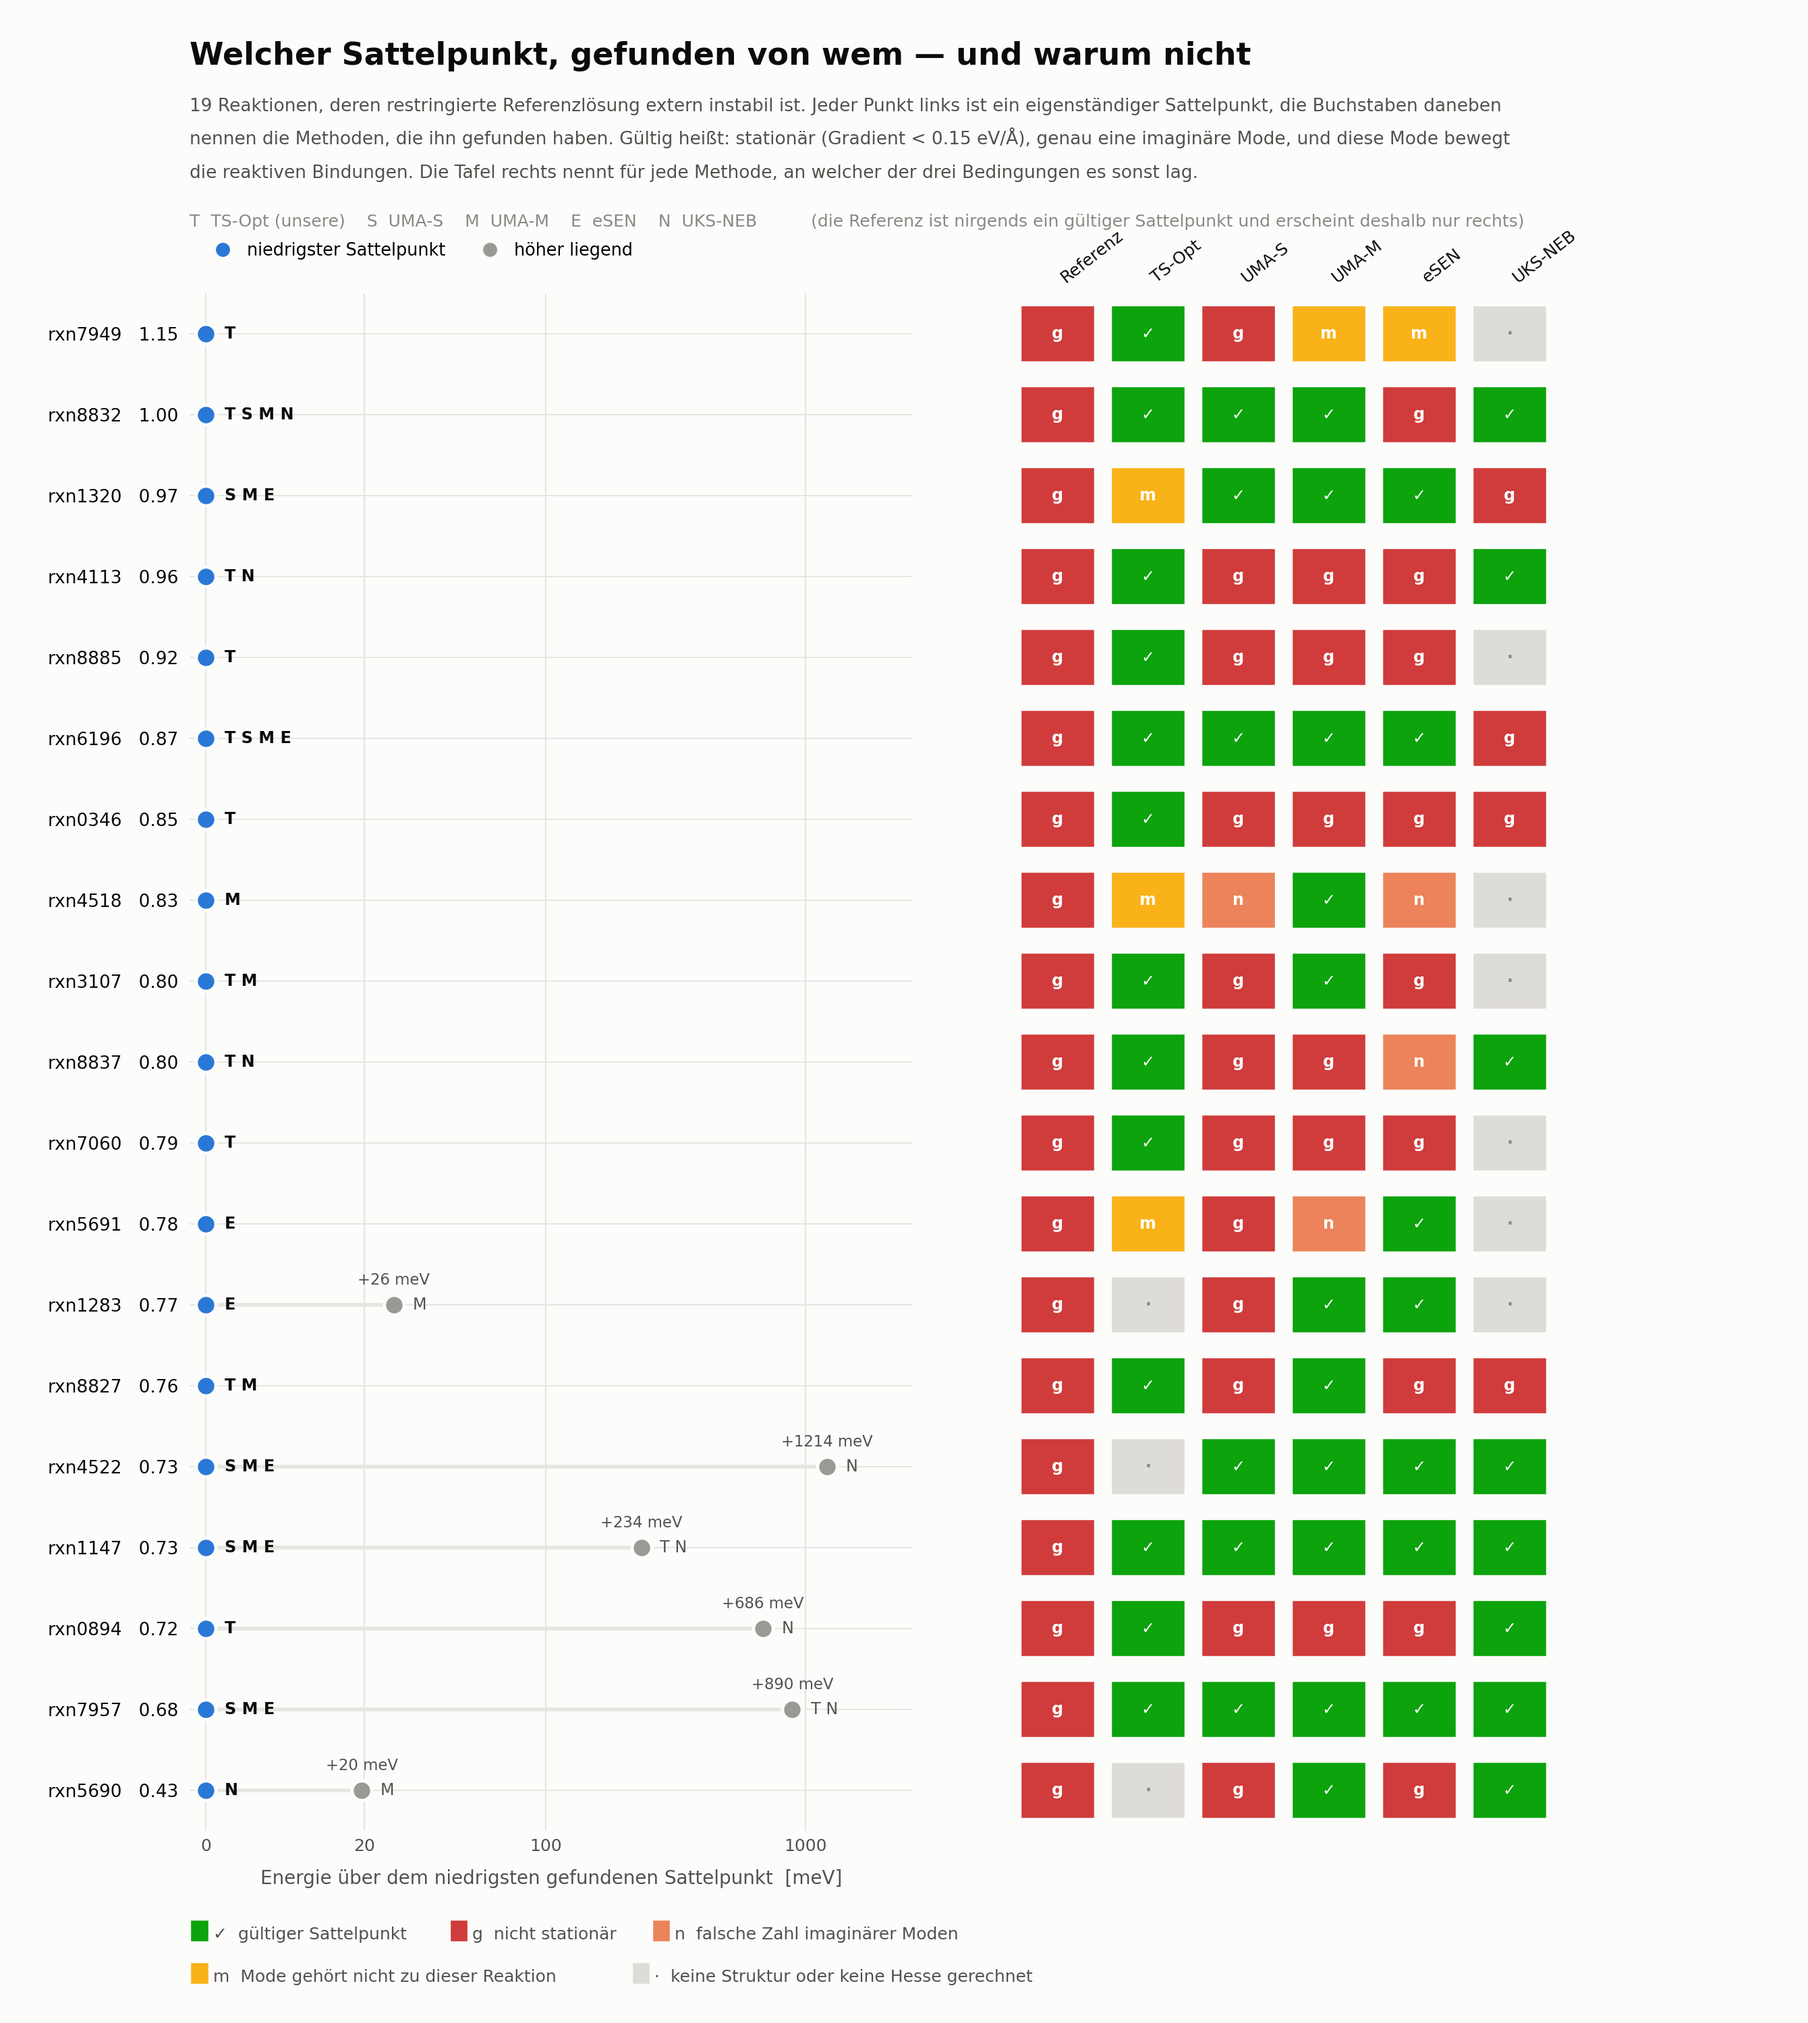
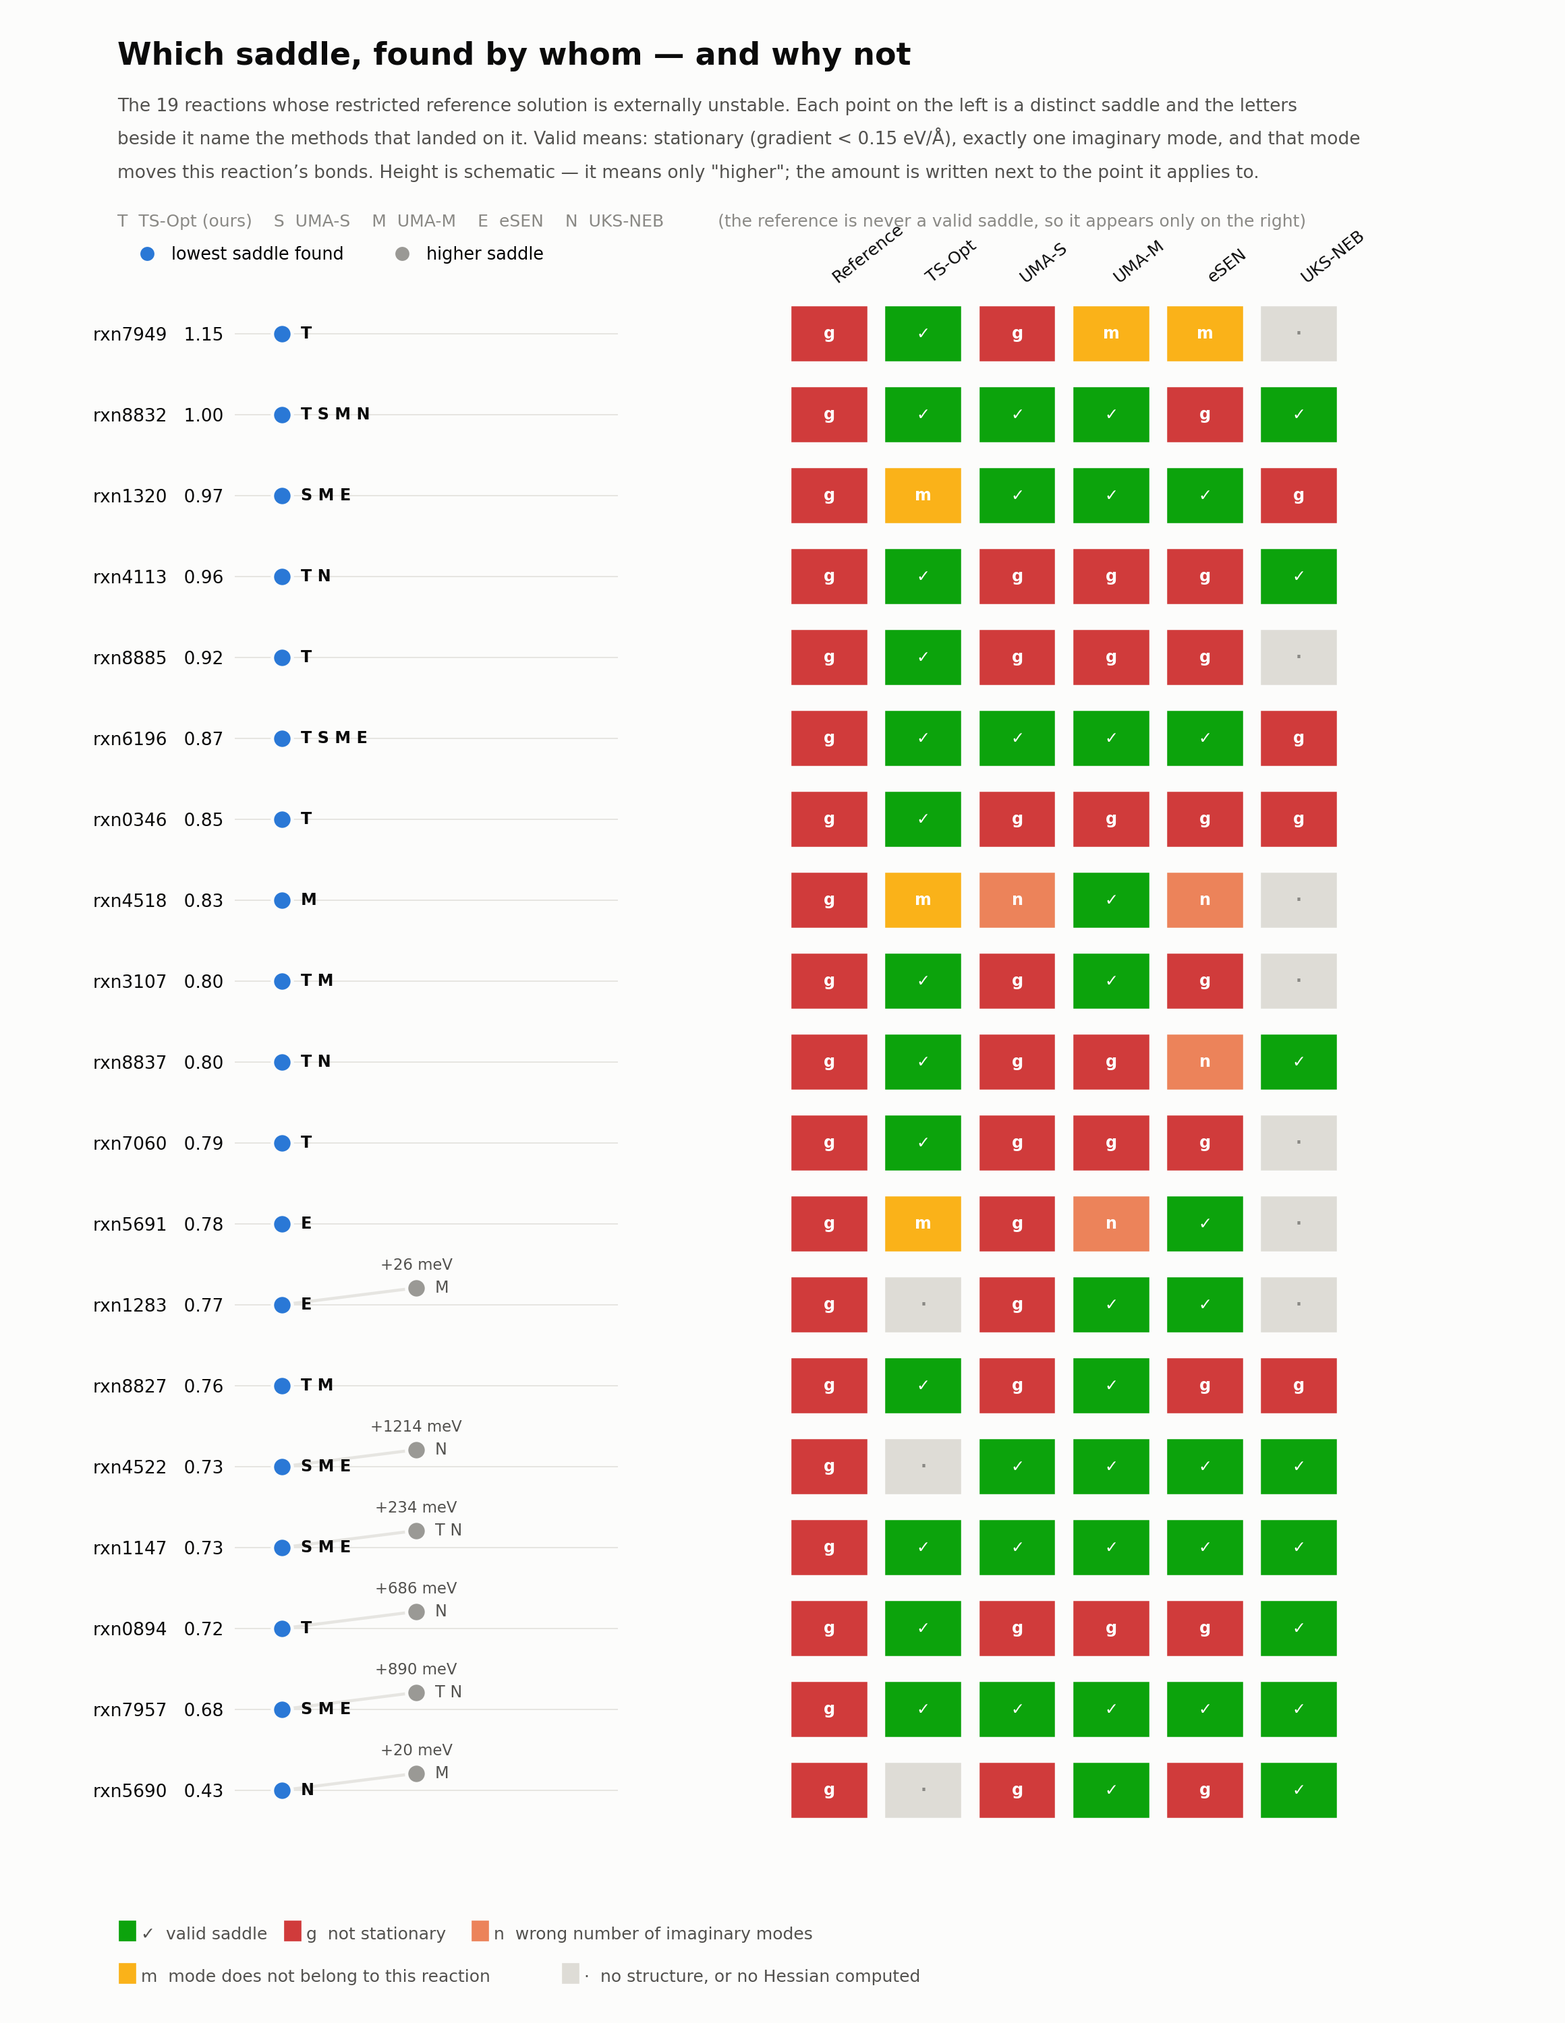
Redraw the saddle figure as a schematic staircase, in English
The energy axis is gone. A symmetric-log scale was hard to read a position off,
and thirteen of the nineteen reactions sit at exactly zero, so most of its width
carried nothing. Height is now schematic -- each further saddle is one step up
and to the right, meaning only "higher" -- and the amount is written beside the
point it applies to, which is where a reader wants it anyway.

That frees enough width to drop the figure from 13.4 to 11.6 inches with the
status panel larger rather than smaller.

Also fixed: the marker legend overlapped the letter key, "higher saddle ->"
duplicated what the subtitle already said, and the first column was still
labelled Referenz.

diff --git a/pipeline/plot_saddle_landscape.py b/pipeline/plot_saddle_landscape.py
@@ -62,7 +62,7 @@ HIGH = '#9a9995'
 ST = {'ok': '#0ca30c', 'grad': '#d03b3b', 'nimag': '#ec835a',
       'mode': '#fab219', 'none': '#dedcd6'}
 
-METHODS = [('Referenz', 'R'), ('TS-Opt', 'T'), ('UMA-S', 'S'),
+METHODS = [('Reference', 'R'), ('TS-Opt', 'T'), ('UMA-S', 'S'),
            ('UMA-M', 'M'), ('eSEN', 'E'), ('UKS-NEB', 'N')]
 MODELDIR = {'UMA-S': 'uma_neb_results', 'UMA-M': 'uma_m_neb_results',
             'eSEN': 'esen_neb_results'}
@@ -201,8 +201,8 @@ def collect(rx):
     out = {}
     g = f'{H}/orca_neb_results/{rx}/transition_state.xyz'
     e, gr = stab(rx, 'RKS-ref')
-    out['Referenz'] = {'geom': g if os.path.exists(g) else None,
-                       'e': e, 'grad': gr, 'hess': None}
+    out['Reference'] = {'geom': g if os.path.exists(g) else None,
+                        'e': e, 'grad': gr, 'hess': None}
     geom = hp = e = None
     for d in ('bs_tsopt_fromneb', 'bs_tsopt_v2', 'bs_tsopt_batch'):
         rp = f'{H}/{d}/{rx}/result.json'
@@ -333,42 +333,40 @@ NR = len(rows)
 # the nineteen reactions have every method on one level at zero, so most of its
 # width would be empty. The emptiness is the message, but it does not need
 # sixty percent of the figure to make it.
-fig = plt.figure(figsize=(13.4, 0.60 * NR + 3.6), facecolor=SURF)
-axE = fig.add_axes([0.105, 0.095, 0.400, 0.760])
-axS = fig.add_axes([0.560, 0.095, 0.300, 0.760], sharey=axE)
+fig = plt.figure(figsize=(11.6, 0.60 * NR + 3.6), facecolor=SURF)
+axE = fig.add_axes([0.150, 0.095, 0.245, 0.760])
+axS = fig.add_axes([0.500, 0.095, 0.360, 0.760], sharey=axE)
 
-XMAX = 2600
+# The energy is drawn as a staircase, not on a scale. A logarithmic axis was
+# hard to read a position off, and thirteen of the nineteen reactions sit at
+# exactly zero, so most of its width carried nothing. Height now means only
+# "higher", and the amount is written next to the point where it applies.
+STEP_X, STEP_Y = 1.0, 0.21
 for ax in (axE, axS):
     ax.set_facecolor(SURF)
     for sp in ax.spines.values():
         sp.set_visible(False)
-axE.set_xscale('symlog', linthresh=20, linscale=0.55)
-axE.set_xlim(-2, XMAX)
+axE.set_xlim(-0.35, 2.5)
 axE.set_ylim(NR - 0.5, -0.5)
 axE.set_yticks(range(NR))
 axE.set_yticklabels([f'{r["rx"]}   {r["nfod"]:.2f}' for r in rows],
                     fontsize=9.5, color=INK, family='DejaVu Sans')
 axE.tick_params(axis='y', length=0, pad=6)
-ticks = [0, 20, 100, 1000]
-axE.set_xticks(ticks)
-axE.set_xticklabels([str(t) for t in ticks], fontsize=9, color=INK2)
-axE.set_xticks([], minor=True)          # symlog adds a ghost tick at linthresh
-axE.tick_params(axis='x', length=0, pad=4)
-for t in ticks:
-    axE.axvline(t, color=GRID, lw=0.8, zorder=0)
+axE.set_xticks([])
 for i in range(NR):
     axE.axhline(i, color=GRID, lw=0.7, zorder=0)
 
 for i, r in enumerate(rows):
     if not r['groups']:
-        axE.text(0.6, i, 'kein gültiger Sattelpunkt', fontsize=9,
+        axE.text(0.0, i, 'kein gültiger Sattelpunkt', fontsize=9,
                  color=INK3, va='center', style='italic')
         continue
-    xs = [max(l, 0.0) for l in r['levels']]
-    if len(xs) > 1:
-        axE.plot([min(xs), max(xs)], [i, i], color=GRID, lw=2.0, zorder=1,
-                 solid_capstyle='round')
-    for k, (grp, x) in enumerate(zip(r['groups'], xs)):
+    # a staircase: every further saddle one step up and to the right
+    pts = [(k * STEP_X, i - k * STEP_Y) for k in range(len(r['groups']))]
+    if len(pts) > 1:
+        px, py = zip(*pts)
+        axE.plot(px, py, color=GRID, lw=1.6, zorder=1, solid_capstyle='round')
+    for k, (grp, (x, y)) in enumerate(zip(r['groups'], pts)):
         col = LOW if k == 0 else HIGH
         # in the column order of the panel on the right, so the eye can move
         # between the two halves without re-sorting
@@ -377,22 +375,20 @@ for i, r in enumerate(rows):
         # One marker per saddle, not per method: four stacked markers inside a
         # row overlap at any readable marker size, and the level is the object
         # the figure is about. Who found it goes beside it as letters.
-        axE.scatter([x], [i], s=112, marker='o', facecolor=col,
+        axE.scatter([x], [y], s=112, marker='o', facecolor=col,
                     edgecolor=SURF, linewidth=1.8, zorder=4)
-        axE.annotate(' '.join(names_short := [LETTER[n] for n in names]),
-                     xy=(x, i), xytext=(10, 0), textcoords='offset points',
+        axE.annotate(' '.join(LETTER[n] for n in names),
+                     xy=(x, y), xytext=(10, 0), textcoords='offset points',
                      fontsize=8.6, color=INK if k == 0 else INK2,
                      va='center', ha='left', zorder=5,
                      weight='bold' if k == 0 else 'normal',
                      family='DejaVu Sans')
         if k > 0:
-            axE.annotate(f'+{x:.0f} meV', xy=(x, i), xytext=(0, 13),
-                         textcoords='offset points', fontsize=8.2,
-                         color=INK2, va='center', ha='center',
+            axE.annotate(f'+{r["levels"][k]:.0f} meV', xy=(x, y),
+                         xytext=(0, 12), textcoords='offset points',
+                         fontsize=8.2, color=INK2, va='center', ha='center',
                          family='DejaVu Sans')
 
-axE.set_xlabel('Energie über dem niedrigsten gefundenen Sattelpunkt  [meV]',
-               fontsize=10, color=INK2, labelpad=8)
 
 GLYPH = {'ok': '✓', 'grad': 'g', 'nimag': 'n', 'mode': 'm', 'none': '·'}
 axS.set_xlim(-0.5, len(METHODS) - 0.5)
@@ -413,56 +409,53 @@ for i, r in enumerate(rows):
                  color='white' if s != 'none' else INK3, zorder=3,
                  weight='bold')
 
-fig.text(0.105, 0.968, 'Welcher Sattelpunkt, gefunden von wem — und warum '
-         'nicht', fontsize=16.5, color=INK, weight='bold', ha='left')
+fig.text(0.075, 0.968, 'Which saddle, found by whom — and why not',
+         fontsize=16.5, color=INK, weight='bold', ha='left')
 for k, line in enumerate([
-        '19 Reaktionen, deren restringierte Referenzlösung extern instabil '
-        'ist. Jeder Punkt links ist ein eigenständiger Sattelpunkt, die '
-        'Buchstaben daneben',
-        'nennen die Methoden, die ihn gefunden haben. Gültig heißt: '
-        'stationär (Gradient < 0.15 eV/Å), genau eine imaginäre Mode, und '
-        'diese Mode bewegt',
-        'die reaktiven Bindungen. Die Tafel rechts nennt für jede Methode, '
-        'an welcher der drei Bedingungen es sonst lag.']):
-    fig.text(0.105, 0.945 - 0.0165 * k, line, fontsize=9.5, color=INK2,
+        'The 19 reactions whose restricted reference solution is externally '
+        'unstable. Each point on the left is a distinct saddle and the letters',
+        'beside it name the methods that landed on it. Valid means: '
+        'stationary (gradient < 0.15 eV/Å), exactly one imaginary mode, and '
+        'that mode',
+        'moves this reaction’s bonds. Height is schematic — it means only '
+        '"higher"; the amount is written next to the point it applies to.']):
+    fig.text(0.075, 0.945 - 0.0165 * k, line, fontsize=9.5, color=INK2,
              ha='left')
 
-fig.text(0.105, 0.888,
-         'T  TS-Opt (unsere)    S  UMA-S    M  UMA-M    E  eSEN    '
-         'N  UKS-NEB          (die Referenz ist nirgends ein gültiger '
-         'Sattelpunkt und erscheint deshalb nur rechts)',
+fig.text(0.075, 0.888,
+         'T  TS-Opt (ours)    S  UMA-S    M  UMA-M    E  eSEN    N  UKS-NEB'
+         '          (the reference is never a valid saddle, so it appears '
+         'only on the right)',
          fontsize=9, color=INK3, ha='left')
 
 leg = [Line2D([], [], marker='o', ls='', markersize=8.5, markerfacecolor=LOW,
-              markeredgecolor=SURF, label='niedrigster Sattelpunkt'),
+              markeredgecolor=SURF, label='lowest saddle found'),
        Line2D([], [], marker='o', ls='', markersize=8.5, markerfacecolor=HIGH,
-              markeredgecolor=SURF, label='höher liegend')]
-axE.legend(handles=leg, loc='lower left', bbox_to_anchor=(0.0, 1.012),
-           ncol=2, frameon=False, fontsize=9.2, handletextpad=0.4,
-           columnspacing=1.6)
+              markeredgecolor=SURF, label='higher saddle')]
+fig.legend(handles=leg, loc='lower left', bbox_to_anchor=(0.073, 0.862),
+           bbox_transform=fig.transFigure, ncol=2, frameon=False,
+           fontsize=9.2, handletextpad=0.4, columnspacing=2.4)
 
-# Two rows, so the longest label cannot run off the right edge -- the single
-# row overflowed at "keine Struktur oder keine Hesse".
-items = [[('ok', 'gültiger Sattelpunkt'),
-          ('grad', 'nicht stationär'),
-          ('nimag', 'falsche Zahl imaginärer Moden')],
-         [('mode', 'Mode gehört nicht zu dieser Reaktion'),
-          ('none', 'keine Struktur oder keine Hesse gerechnet')]]
+# Two rows, so the longest label cannot run off the right edge.
+items = [[('ok', 'valid saddle'),
+          ('grad', 'not stationary'),
+          ('nimag', 'wrong number of imaginary modes')],
+         [('mode', 'mode does not belong to this reaction'),
+          ('none', 'no structure, or no Hessian computed')]]
 for r_i, row_items in enumerate(items):
-    x0 = 0.105
+    x0 = 0.075
     y = 0.040 - 0.021 * r_i
     for key, lab in row_items:
-        fig.patches.append(Rectangle((x0, y), 0.0105, 0.0115,
+        fig.patches.append(Rectangle((x0, y), 0.0125, 0.0115,
                                      transform=fig.transFigure,
                                      facecolor=ST[key], edgecolor=SURF,
                                      lw=1.2))
-        fig.text(x0 + 0.0128, y + 0.0012, f'{GLYPH[key]}  {lab}', fontsize=9,
+        fig.text(x0 + 0.0150, y + 0.0012, f'{GLYPH[key]}  {lab}', fontsize=9,
                  color=INK2, ha='left')
-        x0 += 0.0175 + 0.0063 * len(lab)
+        x0 += 0.0205 + 0.0071 * len(lab)
 
 fig.savefig(f'{H}/saddle_landscape.png', dpi=200, facecolor=SURF)
 print('written saddle_landscape.png')
-print(f'{NR} Reaktionen, '
-      f'{sum(1 for r in rows if len(r["groups"]) > 1)} mit mehreren '
-      f'Sattelpunkten, '
-      f'{sum(1 for r in rows if not r["groups"])} ohne einen')
+print(f'{NR} reactions, '
+      f'{sum(1 for r in rows if len(r["groups"]) > 1)} with more than one '
+      f'saddle, {sum(1 for r in rows if not r["groups"])} with none')
